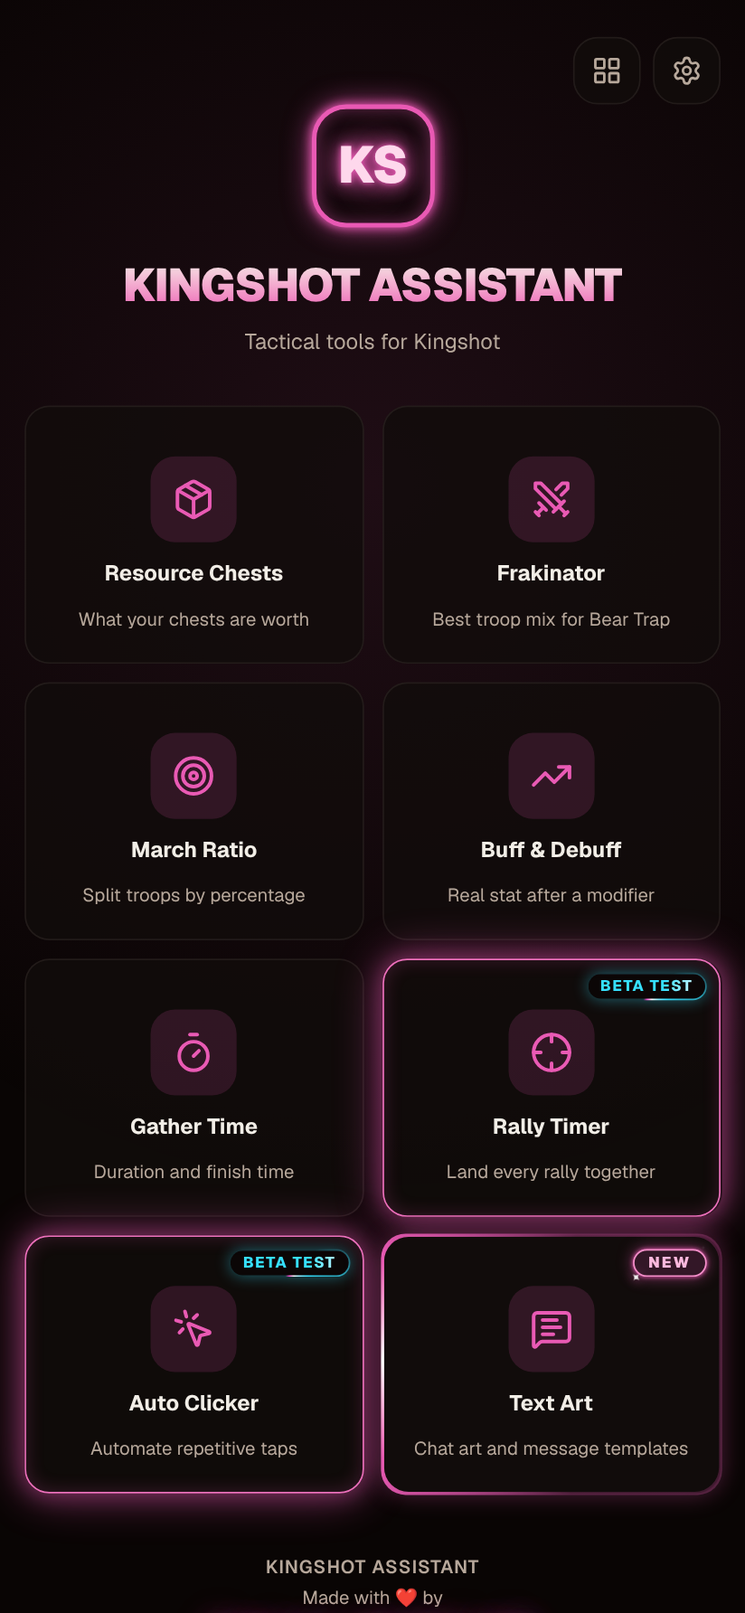
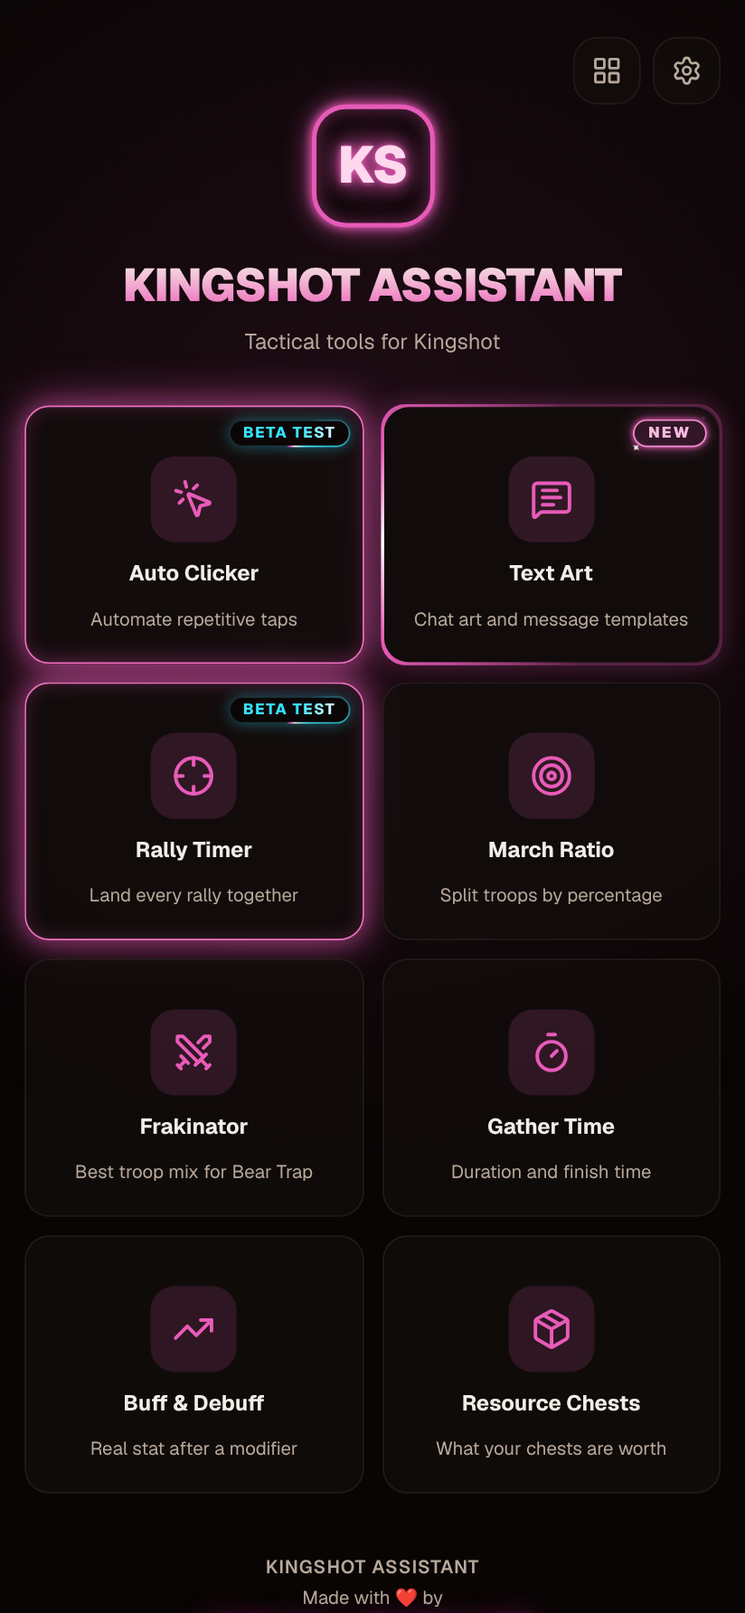
Defaults for everyone: accent, tile order, Text Art starter set, Auto Clicker look
A new install now starts with:
- the pink accent (hue 343) and the home tiles in the owner's order;
- about 40 ready-made Text Art templates in two folders (Pixel Art, ASCII);
- small Auto Clicker markers, a see-through panel that hides its markers
  while running, and a Terror macro whose steps are named (English and French).
Existing installs keep their own data. Version 1.2.0-beta.6, release notes.

Claude-Session: https://claude.ai/code/session_01NjK3Gz6vtnM8goYfLz7dzK

diff --git a/lib/default-art.ts b/lib/default-art.ts
@@ -1,0 +1,72 @@
+// The templates every new install starts with in Text Art: the owner's own collection,
+// in two folders. Existing users keep what they have; this is only used the first time
+// the module is opened.
+//
+// Names left empty show as "Untitled" in the language of the app.
+
+import { EXAMPLE_ART, type ArtLibrary } from "./text-art"
+
+const PIXEL = "default-folder-pixel-art"
+const ASCII = "default-folder-ascii"
+
+/** Id of the pixel hero: its name is translated when the library is created. */
+export const EXAMPLE_ID = "default-art-example"
+
+const ITEMS: { name: string; folder: string | null; text: string; updatedAt: number }[] = [
+  { name: "", folder: ASCII, text: "~°°~∧＿∧\n　 (｡･ω･｡)つ━💫~💎🌟。\n  ⊂/　     /　                💎゜\n　しーＪ　　　     🌟。+ 💎。　\n　　　　　                      💫・゜                    \n    ╭◜◝  ͡  ◜  ͡  ╮   ╭◜◝  ͡  ◜◝  ͡  ◝╮\n(    please      )    (      like my      )\n╰◟◞  ͜  ╭◜◝  ͡ ◜◝  ͡  ◝  ͡  ╮◞◟◞ ╯\n 　 　  (            island      )\n 　　    ╰◟◞  ͜  ◟◞  ͜  ◟◞ ╯", updatedAt: 1795409756514 },
+  { name: "", folder: ASCII, text: "yes          yes         yesyes\nyesyes    yes     yes         yes\nyes  yes  yes    yes           yes\nyes    yesyes    yes           yes\nyes      yesye     yes         yes\nyes          yes         yesyes", updatedAt: 1795409746352 },
+  { name: "", folder: PIXEL, text: "　　　🐸🐸🐸　　　🐸🐸🐸　　　　\n　　🐸🐸🐸🐸🐸　🐸🐸🐸🐸🐸　　　\n　🐸🐸🐸🐸🐸🐸🐸🐸🐸🐸🐸🐸🐸　　\n🐸🐸🐸🐸🐸🐸🐸🐸🐸🐸🐸🐸🐸🐸　　\n🐸🐸⚪⚫⚫⚪🐸🐸🐸🐸⚪⚫⚫⚪　　\n🐸⚪⚫⚫⚪⚫⚪🐸🐸⚪⚫⚫⚪⚫⚪　\n🐸⚪⚫⚪⚫⚫⚪🐸🐸⚪⚫⚪⚫⚫⚪　\n🐸🐸⚪⚫⚪⚪🐸🐸🐸🐸⚪⚫⚪⚪　　\n🐸🐸🐸🐸🐸🐸🐸🐸🐸🐸🐸🐸🐸🐸　　\n🔴🔴🐸🐸🐸🐸🐸🐸🐸🐸🐸🐸🐸🐸　　\n🐸🔴🔴🐸🐸🐸🐸🐸🐸🐸🐸🐸🐸　　　🐸🐸🔴🔴🔴🔴🔴🔴🔴🔴🔴🔴🔴🔴　　🐸🐸🐸🔴🔴🔴🔴🔴🔴🔴🔴🔴🔴🔴　　🐸🐸🐸🐸🐸🐸🐸🐸🐸🐸🐸🐸🐸　　　　🐸🐸🐸🐸🐸🐸🐸🐸🐸🐸🐸　　　　　　🐸🐸🐸🐸🐸🐸🐸🐸🐸", updatedAt: 1795409733029 },
+  { name: "", folder: null, text: "◽◽◽◽◽◽◾◾◾◾◽◽◽◽◽◽\n◽◽◽◽◾◾🔴🔴🔴🔴◾◾◽◽◽◽\n◽◽◽◾🔴🔴🔴🔴🔴🔴🔴🔴◾◽◽◽\n◽◽◾🔴🔴🔴🔴🔴🔴🔴🔴🔴🔴◾◽◽\n◽◽◾◽◽🔴🔴🔴🔴🔴🔴◽◽◾◽◽\n◽◾◽◽◽◽◾◾◾◾◽◽◽◽◾◽\n◽◾◽◽⚫◽◾◾◾◾◽⚫◽◽◾◽\n◽◾🔴◽◽◽◾◾◾◾◽◽◽🔴◾◽\n◽◾🔴🔴🔴◽◾◾◾◾◽🔴🔴🔴◾◽\n◽◽◾🔴🔴🔴◾◾◾◾🔴🔴🔴◾◽◽\n◽◽◾🔴🔴🔴🔴◾◾🔴🔴🔴🔴◾◽◽◽◽◽◾🔴🔴🔴🔴🔴🔴🔴🔴◾◽◽◽◽◽◾📒🔴🔴🔴🔴🔴🔴🔴🔴📒◾◽◽◽◾🔵📒🔴🔴🔴🔴🔴🔴🔴🔴📒🔵◾◽◽◾🔵🔵🔴🔴🔴🔴🔴🔴🔴🔴🔵🔵◾◽◽◾🔵🔵🔴🔴🔴🔴🔴🔴🔴🔴🔵🔵◾◽◽◾🔵◾🔴🔴🔴◾◾🔴🔴🔴◾🔵◾◽◽🏉◾🏉◾◾◾🏉🏉◾◾◾🏉◾🏉◽◽🏉🏉🏉🏉🏉🏉🏉🏉🏉🏉🏉🏉🏉🏉◽◽🏉🏉🏉🏉🏉🏉🏉🏉🏉🏉🏉🏉🏉🏉◽", updatedAt: 1795409720486 },
+  { name: "", folder: PIXEL, text: "　　　⚫　　　　　　　　⚫　　　\n　　⚫◽⚫　　　　　　⚫◽⚫　　\n　　⚫◽⚫　　　　　　⚫◽⚫　　\n　　⚫◽◽⚫　　　　⚫◽◽⚫　　\n　⚫◽◽◽⚫⚫⚫⚫⚫⚫◽◽◽⚫　\n　⚫◽⚫◽⚫🎽🎽🎽🎽⚫◽⚫◽⚫　\n　⚫◽◽⚫🎽🎽🎽🎽🎽🎽⚫◽◽⚫　\n　　⚫⚫🎽🎽🎽◽◽🎽🎽🎽⚫⚫　　\n　　⚫🎽◾◽🎽🎽🎽🎽◽◾🎽⚫　　\n　　⚫🎽◾◾🎽🎽🎽🎽◾◾🎽⚫　　\n　　⚫⚫🎽◾◽◽◽◽◾🎽⚫⚫　　　　　⚫🎽◽◽◽◽◽◽🎽⚫　　　⚫⚫　　⚫⚫◽◽◽◽⚫⚫　　　　🎽🎽⚫⚫⚫🎽🚹🚹🚹🚹🎽⚫　　　　⚫🎽🎽🎽🎽🎽◽◽◽◽🎽🎽⚫　　　⚫🎽🎽🎽🎽◽◽◽◽◽◽🎽🎽⚫　　　⚫🎽🎽◽◽◽◽◽◽◽🎽🎽⚫　　　　⚫🎽🎽◽◽◽◽◽◽🎽⚫　　　　　　⚫⚫🎽◽◽◽◽🎽⚫　　　　　　　　　⚫⚫⚫⚫⚫⚫", updatedAt: 1795409702656 },
+  { name: "", folder: PIXEL, text: "　　　⚫⚫⚫　👑　⚫⚫⚫　　　　\n　　⚫⚪⚪⚪⚫　⚫⚪⚪⚪⚫　　　\n　⚫⚪⚪◾◾⚪⚫⚪◾◾⚪⚪⚫　　\n　⚫⚪⚪◾◾⚪⚫⚪◾◾⚪⚪⚫　　\n　⚫⚫⚪⚪⚪⚫　⚫⚪⚪⚪⚫⚫　　\n⚫🐸🐸⚫⚫⚫　　　⚫⚫⚫🐸🐸⚫　\n⚫🌸🌸🐸🐸🐸🐸🐸🐸🐸🐸🐸🌸🌸⚫　\n⚫🌸🌸🐸⚫🐸🐸🐸🐸🐸⚫🐸🌸🌸⚫　\n⚫🐸🐸🐸🐸⚫🐸🐸🐸⚫🐸🐸🐸🐸⚫　\n　⚫🐸🐸🐸🐸⚫⚫⚫🐸🐸🐸🐸⚫　　\n　　⚫⚫🐸🐸🐸🐸🐸🐸🐸⚫⚫　　　　◾◾🐸🐸🐸🐢🐢🐢🐸🐸🐸🐸◾　　◾🐸🐸◾🐸🐸🐸🐸🐸🐸🐸🐸🐸🐸◾　◾🐸🐸◾🐸🐸🐸🐸🐸🐸🐸🐸◾🐸🐸◾　◾◾🐸🐸🐸🐸🐸🐸🐸🐸🐸◾🐸🐸◾　　◾🐸🐸🐸🐸🐸🐸🐸◾◾◾◾◾　　　◾🐸🐸🐸🐸🐸🐸◾🐸🐸🐸◾　　　　　◾🐸🐸🐸◾◾◾🐸🐸🐸◾　　　　　◾◾◾◾　　◾🐸🐸🐸◾　　　　　◾🐸🐸◾　　　◾◾◾　　　　　　　◾◾", updatedAt: 1795409687027 },
+  { name: "", folder: PIXEL, text: "🌌🌌◼◼◼◼◼◼◼◼🌌🌌🌌🌌🌌🌌\n◼◼◼◼◼◼◼◽◽◽◼◼🌌🌌🌌🌌\n◼◼◼◼◼◽◽◽◽◽◽◽◼🌌🌌🌌\n◼◼◼◼◽◽◽◽◽◽◽◽◻◼🌌🌌\n◼◼◼◼◽◽◼◼◽◽◼◼◽◼🌌🌌\n◼◼◼◼◽◽◼◼◽◽◼◼◽◼🌌🌌\n◼◼◼◼◽◽◽◽◽◽◽◽◽◼🌌🌌\n🌌◼◼◼◼◼◼◽◽◽◽◼◼🌌🌌🌌\n🌌🌌◼◼◼◼◼◽◽◽◽◼🌌🌌🌌🌌\n🌌🌌🌌◼◼◼◼◼◼◼◼🌌📔◼🌌🌌\n🌌🌌🌌🌌◼◼◼◼◼◼◼📔📔◼🌌🌌🌌🌌🌌🌌◼◼◼◼◼◼📔📔📁📁◼🌌🌌🌌🌌◼◼◼◼◼◼📔📔◼📁📁📁◼🌌🌌🌌◼◼◼◼◼📔📔◼🌌◼📁📁◼🌌🌌◼◼◼◼◼📔📔◼◼🌌🌌◼📁◼🌌🌌◼◼◼◼📔📔◼◼◼🌌🌌🌌◼◼🌌🌌◼◼◼📔📔◼◼◼◼🌌🌌🌌🌌◼🌌🌌◼◼📔📔◼◼◼◼◼🌌🌌🌌🌌🌌🌌🌌◼📔📔◼◼◼◼◼◼🌌🌌🌌🌌🌌🌌🌌📔📔◼◼◼◼◼◼◼🌌🌌🌌🌌🌌", updatedAt: 1795409672882 },
+  { name: "", folder: PIXEL, text: "　　　　　🌺🌺🌺　　　　　　　　　　　　🌺🌸🌸🌸🌺　　　　　　　　　　🌺🌸🌸🌸🌸🌸🌺　　　　　　　　　🌺🌸🌸🌸🌸🌸🌺　　　　　　　　🌺🌸🌸🌸🌸🌸🌸🌺🌺🌺🌺　　　　　🌺🌸🌸🌸🌸🌺🌺🌸🌸🌸🌸🌺　　　　🌺🌸🌸🌸🌺🌺🌸🌸🌸🌸🌸🌺　　　　⚪⚪🌸🌸🌺🌸🌸🌸🌸🌸🌺　　　　⚪🌕🌕⚪🌸🌸🌺🌺🌺🌺🌺🌸🌺　　　⚪🌕🌕⚪🌸🌸🌸🌸🌸🌸🌸🌺🌺　　　🌺⚪⚪🌸🌸🌸🌸🌸🌸🌸🌸🌸🌺　　　🌺🌸🌸🌸◻◻◻◻◻🌸🌸🌸🌺　　🌺🌸🌸🌸◻◻◻◻◻◻◻🌸🌸🌸🌺　🌺🌸🌸◻◼◻◻◻◻◻◼◻🌸🌸🌺　🌺🌸🌸◻◼◻◻◻◻◻◼◻🌸🌸🌺　　🌺🌸◻◻◻◻🌕◻◻◻◻🌸🌺　　　　🌺🌸◻◻◻◻◻◻◻🌸🌺　　　　　　🌺🌺🌺🌺🌺🌺🌺🌺🌺", updatedAt: 1795409662079 },
+  { name: "", folder: PIXEL, text: "　　　　　\n　　　　◼◼◼◼◼　　　　　　　　　　◼◼◼◼◻◻◼　　　　　　　　◼◼◼◼◻◻◻◻◼　　　　　　◼◼◻◼◼◻◻◻◻◻◼　　　　　◼◻◻◻◼◻◻◼◻◻◼　◼◼　　◼◻◻◻◻🌕🌕◻🌸◻◼◼🆒◼　　◼◻◻◼◻🌕◻◻◻◻◼🆒🆒◼　　◼◻🌸◻◻◻◻◻◻◼🆒🆒🆒◼　　　◼◻◻◻◻◻🆒🆒🆒🆒🆒🆒◼　　　◼◼◼🆒🆒🆒🆒🆒🆒🆒🆒◼　　　◼🆒🆒🆒🆒🆒🆒🆒🆒🆒🆒◼　　　◼🆒🆒🆒◼🆒🆒🆒🆒🆒🆒🆒🆒◼　　◼🆒🆒◼🆒🆒🆒🆒🆒🆒🆒🆒🆒◼　　　◼◼🆒🆒🆒🆒🆒🆒🆒", updatedAt: 1795409649606 },
+  { name: "", folder: ASCII, text: ".               🍀🌻🍀🍀🌾🍀\n            🍀💐🍀🍀🍀🍀💙🍀\n     🍀💜🍀🍀🍀💚🍀🍀🍀🌹🍀           \n🍀🌺🍀🍀🌸🍀🍀🍀🌷🍀🍀🌼🍀\n   🍀🍀💖🍀🍀💓🍀🍀🍀💛🍀🍀\n       `🍀🍀🍂🍀`\\\\//'🍀🍁🍀🍀'                \n                           |  |       🐝\n                 🍃     |  |    ∧__∧      🐝\n                          |  |（｀•ω• )づ__∧    \n               🍃      |  |（つ     /( •ω• ㅎ🐝\n                          |  |  しーＪ   (nnノ) 🍀🍀🍀🍀🍀🍀🍀🍀🍀🍀🍀🍀🍀🍀🍀 Like my island, I'll like yours back 🌴", updatedAt: 1795409633033 },
+  { name: "", folder: PIXEL, text: "　　　　　　🌰🌰🌰🌰🌰　　　　　　　　　　　◼◼◼◼◼　　　　　　　　　🌰🌰🌰🌰🌰🌰🌰🌰🌰　　　　　　　　🐬🐬🐬🐬🐬🐬🌰　　　　　　　　　◼⬜📙◼⬜🐬　　　　　　　　　　📙📙📙📙🐬🐬　　　　　　　　　📙📙📙📙📙📙🐬　　🍊🍊　　　　　　　🐬🐬🐬🐬🐬🐬🍊🍊🍊🍊　　　　　🐬🐬🐬🐬🐬🐬🍊🐬🍊🍊　　　　　🐬🐬🐬🐬🐬🐬🐬🍊🐬🍊　　　　　　🐬　🐬🐬🐬🐬🐬🐬🍊　　　　　　　　　🐬🐬🐬🐬🐬🍊🍊　　　　　　　　🐬🐬🐬🐬🐬🐬🐬　　　　　　　　　🐬🐬　　　🐬🐬　　　　　　　　　🐬🐬　　　🐬🐬　　　　　　　　📙📙📙　　　📙📙📙", updatedAt: 1795409624376 },
+  { name: "", folder: PIXEL, text: "　　　　　　　⚫　　⚫ \n　　　　　　　⚫　⚫ \n　　　　　　　　⚫　⚫⚫ \n　　⚫⚫　⚫⚫⚫⚫⚫ \n　⚫📒📒⚫📒📒📒📒📒⚫⚫ \n⚫📒📒⚫📒📒📒📒📒📒📒📒⚫ \n⚫📒⚫🕡📒📒📒📒📒📒📒📒📒⚫ \n⚫📒🕡⚫🕡📒📒📒🕡🕡📒📒⚫📒⚫ \n⚫📒⚫🕡📒📒📒🕡⚫🕡🕡⚫📒📒📒⚫ ⚫📒📒⚫⚫⚫⚫📒🕡🕡📒⚫📒📒📒⚫ 　⚫📔📔📔📔📔⚫⚫📒📒⚫📒📒📒⚫ ⚫📔📔📔📔📔📔📔📔⚫⚫📒📒📒📒⚫ ⚫📔📔📔📔📔📔⚫⚫📒📒📒📒📒⚫ 　⚫📔📔📔📔⚫📒📒📒📒📒⚫⚫ 　　⚫⚫⚫⚫📒📒📒📒📒📒⚫ 　　⚫📒📒📒📒📒📒📒📒📒⚫⚫⚫⚫ 　⚫⚫⚫📒📒📒📒📒📒📒📒⚫📒📒⚫ ⚫📔📔📔⚫📒📒📒📒📒📒⚫📒📒⚫ 　⚫📔📔📔⚫⚫⚫⚫⚫⚫📔⚫⚫ 　　⚫⚫⚫　　⚫📔📔📔📔⚫ 　　　　　　　　⚫⚫⚫⚫", updatedAt: 1795409612499 },
+  { name: "", folder: PIXEL, text: "◻◻◻◻◻◻◻◻◻◼◼◻◻◻◻◻◻◻◻◻◻◻◻◻◻◼◻◻◻◻◻◻◻◻◻◻◻◻◻◻◻◼◻◻◻◻◻◻◻◻◻◻◻◻◻◻◻◼◼◼◼◼◼◻◻◼◻◻◻◼◻◻◻◻◻◻◻◻◼◻◻◼◼◻◼◼◻◻◼◼◼◼◻◻◼◻◻◼◼◼◼◼◻◼◼◼◼◼◼◼◼◻◻◼📒◼📒◼◼◼◼◼◼◼◼◼◼◻◻◼◼◼◼◼◼◼◼◼◼◼◼◼◼◻◻◻◼◼◼◼◼◼◼◼◼◼◼◼◼◻◻◻◻◻◼◼◼◼◼◼◻◼◼◼◻◻◻◻◻◻◼◼◼◻◼◼◻◼◼◻◻◻◻◻◻◻◼◻◼◻◻◼◻◻◼◻◻◻◻◻◻◻◼◻◼◻◻◼◻◻◼◻◻◻◻◻◻◻◼◻◼◻◻◼◻◻◼◻◻◻◻◻◻◼◼◼◼◻◼◼◻◼◼◻◻◻", updatedAt: 1795409593716 },
+  { name: "", folder: ASCII, text: ".                                ／ 〉\n　　　        ＿_／ ／ ✨\n　　       ／　    〈　   ✨\n　　  ／ ／ ＼　   〉 ✨\n　 ／  Shot   ／ ／     \n／〈  Time   ／ 　      \\  ✨/\n＼＼   ／ ／                 .\\__/\n    /\\_/\\      (\\ __ /)     \n  ( ˶•o•˶)    ( •ω• )     \n ଘ(ა🍺 )     (ა🍺૮)｡", updatedAt: 1795409561718 },
+  { name: "", folder: PIXEL, text: "◻◻◻◻◼◼◼◼◼◼◼◼◻◻◻◻\n◻◻◻◼◼◼◼◼◼◼◼◼◼◻◻◻\n◻◻◼◼◼◼◼◼◼◼◼◼◼◼◻◻\n◻◻◼◼◻◻◻◼◼◻◻◻◼◼◻◻\n◻◼◼◻◻◻◻◻◻◻◻◻◻◼◼◻\n◻◼◼◻◻◻◼◻◻◼◻◻◻◼◼◻\n◻◼◼◻◻◼◼◻◻◼◼◻◻◼◼◻\n◻◼◼◻◻◼◼◻◻◼◼◻◻◼◼◻\n◻◼◼◻◻◻◻📙📙◻◻◻◻◼◼◻\n◻◼◼◼◻◻📙📙📙📙◻◻◼◼◼◻\n◻◻◼◼◼◼📙📙📙📙◼◼◼◼◻◻◻◻◻◼◼◼◼📙📙◼◼◼◼◻◻◻◻◻◼◼◼◼◼◼◼◼◼◼◼◼◻◻◻◼◼◼◼◻◻◻◻◻◻◼◼◼◼◻◻◼◼◻◻◻◻◻◻◻◻◻◻◼◼◻◼◼◼📙◻📙◻◻◻◻📙◻📙◼◼◼◼◼📙📙📙📙📙◻◻📙📙📙📙📙◼◼◼◼📙📙📙📙📙◻◻📙📙📙📙📙◼◼◼◼📙📙📙📙📙◻◻📙📙📙📙📙◼◼◻◼◼📙📙📙◼◼◼◼📙📙📙◼◼◻◻◻◼◼📙◼◻◻◻◻◼📙◼◼◻◻", updatedAt: 1795409539576 },
+  { name: "", folder: PIXEL, text: "◾◾　　　　　　　　　　　◾📒◾\n◾◾◾　　　　　　　　　◾📒📒◾\n◾◾◾　　　　　　　　◾📒📒📒◾\n◾◾📒◾　　　　　　◾📒📒📒📒◾\n◾📒📒◾◾　　　　◾📒◾◾◾◾◾\n◾◾📒📒◾◾◾◾◾◾◾◾◾📒📒📒\n　◾📒📒📒📒📒📒📒📒📒📒📒📒📒◾\n　◾📒📒📒📒📒📒📒📒📒📒📒◾◾　\n　◾◾📒📒📒📒📒📒📒📒📒◾◾　　\n　◾📒📒📒📒📒📒📒📒📒📒📒◾　　　◾📒⚪◾📒📒📒📒📒⚪◾📒◾　　◾◾📒◾◾📒📒📒📒📒◾◾📒◾◾　◾📒📕📒📒📒📒◾📒📒📒📒📕📒◾　◾◾📕📕📒📒📒📒📒📒📒📕📕◾◾　　◾◾📕📒📒📒◾📒📒📒📕◾◾　　　◾📒📒📒📒📒📒📒📒📒📒📒◾　　◾◾📒📒📒📒📒📒📒📒📒📒📒◾◾　◾📒📒📒📒📒📒📒📒📒📒📒📒📒◾　◾📒📒◾📒📒📒📒📒📒📒◾📒📒◾　◾📒◾📒📒📒📒📒📒📒📒📒◾📒◾", updatedAt: 1795409528107 },
+  { name: "", folder: ASCII, text: ".∴＼∨／∴\n　＊│＊　　＝＞✨＜＝\n＊＼※／＊　　∵／∧＼∵\n─※✨✨※─　 　   ∵∥∵\n＊／※＼＊ ・　＊│＊　 　 　　 ｉ　　ｉ　　 　　 　ｉ\n＿＿ (\\ _/)(\\👑/)   ｉ　　\n         ( 　   ( 　   ) ￣￣       \n        (　ヾ (　⊃ )\n\nCould be us, but you're not in 1167.\n.", updatedAt: 1795409517241 },
+  { name: "", folder: PIXEL, text: "◻◻◻◻◻◻◻◻◼◼◼◻◻◻◻◻\n◻◻◻◼◼◻◻◼📘📘📘◼◻◻◻◻\n◻◻◼◻◻◼◼◼📘📘📘◻◼◻◻◻\n◻◻◼◻◻◻◻◻📘📘📘📘📘◼◻◻\n◻◼◻◻◻◻◻◻◻◻📘📘📘◼◻◻\n◻◼◻◻◻◻◻◻◻◻📘📘📘◻◼◻\n◼◼◻◻◻◻◻◻◻◻◻◻◻◼◼◼\n◻◼◻◼◻◻◻◻◻◼◻◻◻◻◼◻\n◼◼◻◼◻◻◻◻◻◼◻◻◻◼◼◼\n◻◼◻◻◻📕◻◻◻◻◻◻◻◼◻◻\n◻◻◼◻◻◻◻◻◻◻◻◼◼◻◻◻◻◻◻◼◼◼◼◼◼◼◼◻◻◻◻◻◻◻◼◻◼📘◻📘📘◻◻◼◻◻◻◻◻◻◻◼📘📘📘📘📘📘◻◻◼◻◻◻◻◻◼📘📘📘📘📘📘📘📘◼◻◻◻◻◻◻◻◼◻◼◻◻◻◼◼◻◻◻◻◻◻◻◻◻◼◼◼◼◼◼◻◻◻◻◻◻", updatedAt: 1795409496838 },
+  { name: "", folder: ASCII, text: ".     ＜~ヽ、\n    　/　　＼\n    ,.' , =＝=｀､\n＜__(   ͡● ᴗ●)_＞ \n      ⊂　　  つ━━✨✨✨ <item_icon_100004>   \n        しーーＪ", updatedAt: 1795409479487 },
+  { name: "", folder: ASCII, text: "\u0016\u0016                \u0016\u0016\u0016\u0016\u0016\u0016\u0016\u0016\u0016\u0016\u0016\u0016　　　\u0016\u0016🍸　\n     ∧__∧　　 \u0016🍸\u0016🍸　\n   (  ´･ω･)       \u0016🍸\u0016🍸\u0016🍸\n   /ヽ○==○ \u0016\u0016🍹🍹\u0016🍹\u0016🍹\n \u0016/　   ||＿||\u0016🍹\u0016🍹\u0016🍹\u0016🍹\u0016🍹\nし'￣(_))￣(_))￣(_))￣(_)\u0016\u0016\u0016\u0016\u0016\u0016", updatedAt: 1795409471696 },
+  { name: "", folder: PIXEL, text: "💜💜⚫⚫　　　　　　　⚫⚫💜💜⚫\n💜💜💜⚫⚫　　　　　⚫⚫💜💜💜⚫\n💜💜💜⚫⚫⚫⚫⚫⚫⚫⚫⚫💜💜💜⚫\n💜💜⚫⚫⚫⚫⚫⚫⚫⚫⚫⚫⚫💜💜⚫\n💜⚫⚫⚫⚫⚫⚫⚫⚫⚫⚫⚫⚫⚫💜⚫\n⚫⚫⚫⚫⚫⚫⚫⚫⚫⚫⚫⚫⚫⚫⚫　\n⚫⚫⚫⚪⚪⚫⚫⚫⚫⚫⚪⚪⚫⚫⚫　\n⚫⚫⚪⚪⚪⚪⚫⚫⚫⚪⚪⚪⚪⚫⚫　\n⚫⚪⚪⚪⚫⚪⚫⚫⚫⚪⚫⚪⚪⚪⚫⚫\n⚫⚪⚪⚪⚫⚪⚫⚫⚫⚪⚫⚪⚪⚪⚫　\n⚫⚫⚪⚪⚪⚪⚫🌸⚫⚪⚪⚪⚪⚫⚫⚫⚫⚫⚫⚫⚫⚫⚫⚫⚫⚫⚫⚫⚫⚫⚫　　⚫⚫⚫⚫⚫⚫⚫⚫⚫⚫⚫⚫⚫　　　　⚫⚫⚫⚫⚫⚫⚫⚫⚫⚫⚫　　　　　　　⚫🌺🌺⚫🌺🌺⚫　　　　　　　　⚫🌺🌺🌺🌺🌺🌺🌺⚫", updatedAt: 1795409451688 },
+  { name: "", folder: PIXEL, text: "　　　　　◼◼◼◼◼◼　　　　　　　　　◼◼📒📒◼◼◼◼　　　　　　　◼📘📘📒📒📘📘📘◼　　　　　　📘📘📘◼◼◼◼◼📘📘◼　　　　◼◼◼◼◼◼◼◼◼◼📘📘　　　◼◼◼◼◼📜📜📜📜◼◼◼◼◼　　◼◼◼◼📜📜📜📜📜📜◼◼◼◼◼　◼◼◼◼📜📘📜📜📜📘📜◼◼◼◼◼◼◼◼📒📜📜📜📜📜📜📜📒◼◼◼◼　◼◼📒📒📜📜📜📜📜📒📒◼◼◼◼　　　◼📜📜📜📕📜📜◼◼◼◼◼◼　　　　◼◼📜📜📜📜◼◼◼◼◼　　　　　　◼◼📜📜📜◼◼◼◼　　　　　　　　📒📜📜📜📒◼◼　　　　　　　📜📜📒📒📒📒📒📜📜◼　　　　　📜📜📜📜📜📒📜📜📜📜📜◼　　　📜📘📘📘📘📜📜📜📘📘📘📘◼◼　　📘📘📘📘📘📘📜📘📘📘📘📘◼◼　　📘📘📘📘📘📘📘📘📘📘📘📘◼◼　　📜📘📘📘📘📘📘📘📘📘📘📘📘📘　　📜📜📜📜📜📜📜📜📜📜📜📜📜📜", updatedAt: 1795409439157 },
+  { name: "", folder: PIXEL, text: "　　◼◼　　　　　　　　◼◼　　　◼◻◻◼　　　　　　◼◻◻◼　　◼◻◻◻◼　　　　◼◻◻◻◼　　◼◻◻◻◻◼　　◼◻◻◻◻◼　　　◼◻◻◻◼　　◼◻◻◻◼　　　　　◼◻◻◼◼◼◼◻◻◼　　　　　　　◼◻◻◻◻◻◻◼　　　　　　　◼◻◻◼⚪◻◼⚪◻◼　　　　　◼◻◻◻◼◼◻◼◼◻◻◼　　　　◼◻◻◻◻◻◼◻◻◻◻◼　　　◼◻◻◻◻◻◼◻◼◻◻◻◻◼　　◼◻◻◻◻◻◻◻◻◻◻◻◻◼　　◼◻◻◻◻◻◻◻◻◻◻◻◻◼　　　◼◻◻◻◻◻◻◻◻◻◻◼　　　　　◼◻◻◻◻◻◻◻◻◼　　　　◼◼◻◻◻◻◻◻◻◻◻◻◼　　◼◻◻◼◻◻◻◻◻◻◻◻◻◻◼　◼◻◻◼◻◻◻◻◻◻◻◻◼◻◻◼　◼◼◻◻◻◻◻◻◻◻◻◼◻◻◼　　◼◻◻◻◻◻◻◻◼◼◼◼◼　　　◼◻◻◻◻◻◻◼◻◻◻◼　　　　　◼◻◻◻◼◼◼◻◻◻◼　　　　　◼◼◼◼　　◼◻◻◻◼　　　　　◼◻◻◼　　　◼◼◼　　　📗📗📗📗◼◼📗📗📗📗📗📗📗📗📗📗", updatedAt: 1795409425223 },
+  { name: "", folder: PIXEL, text: "⬜⬜⬜⬛⬜⬜⬜⬜⬜⬜⬜⬜⬜⬜⬜⬜⬜⬜⬜⬜⬛⬜⬜⬜⬜⬜⬜⬜⬜⬜⬜⬜⬜⬛⬛⬜⬛⬛⬛⬛⬛⬛⬜⬜⬜⬜⬜⬜⬜⬜⬜⬛📒📒📒📒📒📒📒⬛⬜⬜⬜⬜⬜⬜⬛📒📒📒📒📒📒📒📒📒⬛⬜⬜⬜⬜⬛📒📒📒📒📒📒📒📒📒📒📒⬛⬜⬜⬜⬛📒📒📒📒📒📒📒📒📒📒📒⬛⬜⬜⬜⬛📒📒📒📒📒📒📒📒📒📒📒⬛⬜⬜⬜⬛📒📒⬛📒📒📒📒⬛📒📒📒⬛⬜⬜⬜⬛📒📒⬛📒📒📒📒⬛📒📒📒⬛⬜⬜⬛📒📒📒📒📒📙📙📒📒📒📒📒📒⬛⬜⬛📒📒📒📒📙📙📙📙📒📒📒📒📒⬛⬜⬜⬛📒📒📒📒📒📒📒📒📒📒📒⬛⬜⬜⬜⬜⬛⬛⬛⬛⬛⬛⬛⬛⬛⬛⬛⬜⬜⬜⬜⬜⬜⬜⬛📒📒📒📒📒📒⬛📒⬛⬜⬜⬜⬜⬜⬛📒📒📒📒📒⬛⬛📒📒⬛⬜⬜⬜⬜⬜⬛📒📒📒📒📒📒📒⬛⬛⬜⬜⬜⬜⬜⬜⬜⬛⬛⬛⬛⬛⬛⬛⬛⬛⬜⬜⬜⬜⬜⬜⬜⬜⬛⬜⬜⬜⬛⬜⬜⬜⬜⬜", updatedAt: 1795409415500 },
+  { name: "", folder: ASCII, text: ".             /| _ ╱|、                 \n             ( •̀ㅅ •́  )\n       ＿ノ ヽ ノ＼＿ \n    /　`/ Ｙ Ｙ　 \\     \\  \n ( 　(三ヽ人　 /　 　|\n|　ﾉ＼ ￣￣ヽ　   ノ\nヽ＿＿＿＞､＿＿/ is there gonna\n          ｜( 王 ﾉ〈      Be a problem\n           /ﾐ`ー―彡\\      Here?", updatedAt: 1795409390205 },
+  { name: "", folder: PIXEL, text: "　　◾　　　　　　　　　　◾　　\n　◾😈◾　　　　　　　　◾😈◾　\n◾◾😈😈◾　　　　　　◾😈😈😈◾\n◾😈◾😈😈◾　　　　◾😈😈◾😈◾\n◾😈😈◾😈😈◾　　◾😈😈◾😈😈◾\n◾😈😈👀◾😈◾　　◾😈◾👀😈😈◾\n◾😈😈◾◾😈◾　　◾😈◾◾😈😈◾\n◾😈😈◾◾😈◾　　◾😈◾◾😈😈◾\n◾😈😈😈😈😈◾　　◾😈😈😈😈😈◾\n　◾😈😈😈😈◾　　◾😈😈😈😈◾　\n　　◾😈😈◾　　　　◾😈😈◾　　　　　◾◾　　　　　　◾◾", updatedAt: 1795409375135 },
+  { name: "", folder: PIXEL, text: "　　　　⚫⚫⚫⚫⚫⚫⚫　　　　　\n　　　⚫📗📗📗📗📗📗📗⚫　　　　\n　　⚫📗📗📗📗📗📗📗📗📗⚫　　　\n　　⚫📗💎📗📗💎📗📗⚫📗📗⚫　　\n　　⚫📗📗📗📗📗📗📗⚫📗📗⚫　　\n　　　⚫📗📗📗📗📗⚫✅📗📗⚫　　\n　　　　⚫⚫💥⚫⚫✅✅📗📗⚫　　\n　　　　　　💥⚫✅✅✅📗📗⚫　　\n　　　　　　　⚫✅✅📗📗⚫　　　\n　　　　　　⚫✅✅📗📗📗⚫　　　\n　　　　　　⚫✅✅📗📗⚫　　　　　　　　　⚫✅✅📗📗📗⚫　　　　　　　　⚫✅✅📗📗📗⚫　　　　　　　　　⚫✅✅📗📗⚫　　　　　　　　　⚫✅✅📗📗📗⚫　⚫⚫⚫⚫⚫　　　⚫✅✅📗📗📗⚫⚫📗📗📗📗📗　　　⚫✅✅📗📗📗⚫📗📗📗📗📗📗　　　⚫✅✅📗📗📗⚫📗📗📗📗📗⚫　　⚫⚫✅✅📗📗📗📗⚫✅✅✅✅✅　⚫📗📗⚫✅✅📗📗📗📗⚫⚫⚫⚫⚫⚫📗📗📗⚫✅✅✅📗📗📗📗📗📗📗📗⚫📗📗📗📗⚫✅✅✅📗📗📗📗📗📗📗⚫📗📗📗📗📗⚫✅✅✅✅", updatedAt: 1795409368899 },
+  { name: "", folder: PIXEL, text: "　　⚫⚫　⚫⚫⚫⚫⚫　⚫⚫　　　\n　⚫🏀🏀⚫📜📜📜📜📜⚫🏀🏀⚫　　\n　⚫🏀🏀📜📜📜📜📜📜📜🏀🏀⚫　　\n　　⚫📜📜📜📜📜📜📜📜📜⚫　　　\n　⚫📜📜📜📜📜📜📜📜📜📜📜⚫　　\n　⚫📜📜◼📜📜📜📜📜◼📜📜⚫　　\n　⚫📜📜◻◻◻◼◻◻◻📜📜⚫　　\n　⚫📜◻◻◻◼◻◼◻◻◻📜⚫　　\n　⚫◻◻◻◻◻◻◻◻◻◻◻⚫　　\n⚫◻◻◻◻💜💜◻💜💜◻◻◻◻⚫　\n⚫◻◻◻💜💜💜💜💜💜💜◻◻◻⚫　⚫◻◻◻💜💜💜💜💜💜💜◻◻◻⚫　⚫◻◻◼◼💜💜💜💜💜◼◼◻◻⚫　⚫◻◻◻📜◼💜💜💜◼📜◻◻◻⚫　⚫◻◻◻◼◻◻💜◻◻◼◻◻◻⚫　⚫◻◻◻◻◻◻◻◻◻◻◻◻◻⚫　　⚫◻◻◻◻◻◻◻◻◻◻◻⚫　　　　⚫◻📜📜◻◻◻📜📜◻ ⚫", updatedAt: 1795409303009 },
+  { name: "", folder: PIXEL, text: "　　　　　　　　◼◼◼　　　　　\n　　　◼◼　　◼🔴🔴🔴◼　　　　\n　　◼◻◻◼◼◼🔴🔴🔴◻◼　　　\n　　◼◻◻◻◻◻🔴🔴💗🔴🔴◼　　\n　◼◻◻◻◻◻◻◻◻🔴🔴🔴◼　　\n　◼◻◻◻◻◻◻◻◻🔴🔴🔴◻◼　\n◼◼◻◻◻◻◻◻◻◻◻◻◻◼◼　\n◼◼◻◼◻◻◻◻◻◼◻◻◻◻◼◼\n　◼◻◼◻◻◻◻◻◼◻◻◻◼◼◼\n　◼◻◻◻◻◼◻◻◻◻◻◻◼　　\n　　◼◻◻◻◻◻◻◻◻◼◼　　　　　　◼◼◼◼◼◼◼◼　　　　　　　◼◻◼🔴◻🔴🔴◻◻◼　　　　　　　◼🔴🔴🔴🔴🔴🔴◻◻◼　　　　　◼🔴🔴🔴🔴🔴🔴🔴🔴◼　　　 　　　◼◻◻◼◻◻◻◼◼　　　　　　　　◼◼◼◼◼◼", updatedAt: 1795409309858 },
+  { name: "", folder: PIXEL, text: "　　　　　　　　　◾◾◾　　　　　　　　　　　　◾💛💛💛◾　　　　　　　　　　◾💛💛💛💛💛◾　　　　　　　　　◾💛💛💛◾💛◾　　　　　　　　　◾💛💛💛💛🈷🈷◾　　　　　　　　　◾💛💛💛◾◾　　　◾　　　　　　　◾💛◾　　　　◾💛◾　　　　◾◾💛💛◾　　　　◾💛💛◾◾◾◾💛💛💛💛💛◾　　　◾💛💛💛💛💛💛💛💛💛💛💛💛◾　　　◾💛💛💛💛💛💛💛◾💛💛💛◾　　　◾💛💛◾💛💛💛◾💛💛💛💛◾　　　　◾💛💛◾◾◾◾💛💛💛◾　　　　　◾💛💛💛💛💛💛💛💛💛◾　　　　　　◾◾💛💛💛💛💛◾◾　　　　　　　　　◾◾◾◾◾", updatedAt: 1795409268795 },
+  { name: "", folder: PIXEL, text: "　　　　　📗📗📗📗📗📗　　　　　\n　　　　📗📗📗📗📗📗📗📗　　　　\n📗　　📗◼◼📗📗📗📗◼◼📗　　📗\n📗📗　◼📗📗◼📗📗◼📗📗◼　📗📗\n📗📗📗📗📃📗📗📗📗📗📗📃📗📗📗📗\n📗📗📗📃◼📃📗📗📗📗📃◼📃📗📗📗　　📗📗📃📗📗📗📗📗📗📃📗📗　　　　　📗📗📗📗◼◼◼📗📗📗　　　　　📗📗📗📗📗📗📗📗📗📗📗📗　　　📗📗📗📗📗◼📗📗📗◼📗📗📗📗　📗📗📗📗📗📗📗◼◼◼📗📗📗📗📗📗📗📗📗📗📗📗📗📗📗📗📗📗📗📗📗📗📗📗📗◼📗📗📗📗📗📗📗📗📗◼📗📗　📗📗📗◼📗📗📗📗📗📗📗◼📗📗　　　📗📗📗◼◼◼◼◼◼◼📗📗　　　　　📗📗📗📗📗📗📗📗📗📗　　　　　　　📗📗📗📗📗📗📗📗", updatedAt: 1795409261265 },
+  { name: "", folder: PIXEL, text: "　　　　　　　　　　　　　\n    ◽◽◽　　　　　　　　◽◽◽　\n◽📁📁◽◽◽◽◽◽◽◽◽◽📁📁◽\n◽📁📁◽◽◽◽◽◽◽◽◽◽📁📁◽\n◽◽◽◽◽◽◽◽◽◽◽◽◽◽◽◽\n　　◽◽◼◽◽◽◽◽◽◼◽◽　　\n　◽◽◼◽◼◽◼◼◽◼◽◼◽◽　\n◽◽◽◽◽◽◽◼◼◽◽◽◽◽◽◽\n◽◽🎒🎒🎒🎒🎒🎒🎒🎒🎒🎒🎒🎒◽◽◽◽🎒🎒🎒🎒🎒🎒🎒🎒🎒🎒🎒🎒◽◽◽◽◽🎒🎒🎒🎒🎒🎒🎒🎒🎒🎒◽◽◽◽◽◽◽🎒🎒🎒🎒🎒🎒🎒🎒◽◽◽◽📘📘📘📘◽◽🎒🎒🎒🎒◽◽📘📘📘📘📘📘📘📘📘📘◽◽◽◽📘📘📘📘📘📘📘📘📘📘📘📘📘📘📘📘📘📘📘📘📘📘◽◽📘📘📘📘📘📘📘📘📘📘📘📘◽◽◽◽◽📘📘📘📘📘📘📘📘📘📘◽◽◽", updatedAt: 1795409248837 },
+  { name: "Spider TG", folder: PIXEL, text: "　　　　　　　💭　　　　　　　　\n　　　　　　　💭　　　　　　　　\n　　　　⚫⚫⚫💭⚫⚫⚫　　　　　\n　　　⚫💭⚫　　　　\n　⚫⚫💭⚫⚫　　\n⚫🚹⚫⚫💭⚫⚫🚹⚫　\n🚹🚹🚹⚫🚹💭💭💭🚹⚫🚹🚹🚹　\n🚹🚹🚹⚫⚫⚫💭💭💭⚫⚫⚫🚹🚹🚹　\n🚹🚹⚫⚫💭⚫⚫🚹🚹　\n⚫⚫⚫⚫⚫⚫　\n　⚫🚹⚫⚫🚹⚫　　⚫🚹⚫🚹🚹⚫🚹⚫　⚫⚫🚹🚹⚫⚫　　⚫⚫　　　　⚫⚫⚫⚫⚫⚫⚫　　　　　　　⚫⚫⚫⚫　　　　　　　　⚫⚫　　　　　　⚫⚫　　　　⚫⚫　　　⚫⚫⚫⚫⚫⚫　　　⚫⚫⚪⚪⚫⚫⚪⚪⚫⚫　　　⚫⚫⚪⚫⚫⚪⚫⚫　　　⚫⚫⚫⚫　　　⚫⚫　　　⚫⚫　　　　⚫⚫　　　　　　⚫⚫⚫⚫　　　　　　　　　⚫⚫⚫⚫⚫", updatedAt: 1795409232143 },
+  { name: "Dice Cat", folder: PIXEL, text: "🌑🌑🌑🌑🌑🌑🌑🌑🌑🌑🌑🌑🌑🌑🌑🌑🌑🌑🌑🎲🌑🌑🌑🎲🌑🌑🌑🌑🌑🌑🌑🌑🌑🌑🎲🎲🌑🌑🎲🎲🌑🌑🌑🌑🌑🌑🌑🌑🌑🌑🎲🎲🎲🎲🎲🎲🌑🌑🌑🌑🌑🌑🌑🌑🌑🎲🎲🎲🎲🎲🎲🎲🎲🌑🌑🌑🌑🌑🌑🌑🌑🎲🎲🎲🎲🎲🎲🎲🎲🌑🌑🌑🌑🌑🌑🌑🌑🎲🎲🎲🎲🎲🎲🎲🎲🌑🌑🌑🌑🌑🌑🌑🌑🌑🎲🎲🎲🎲🎲🎲🌑🌑🌑🌑🌑🌑🌑🌑🌑🌑🌑🎲🎲🎲🎲🌑🌑🌑🌑🌑🌑🌑🎲🎲🎲🎲🎲🎲🌑🌑🌑🌑🌑🌑🌑🎲🎲🎲🎲🎲🎲🌑🌑🌑🌑🌑🌑🌑🎲🎲🎲🎲🎲🎲🎲🎲🌑🌑🌑🌑🌑🌑🎲🎲🎲🎲🎲🎲🎲🎲🌑🌑🌑🌑🌑🌑🎲🎲🎲🎲🎲🎲🎲🎲🎲🌑🌑🌑🌑🌑🌑🌑🎲🎲🎲🎲🎲🎲🎲🌑🌑🎲🌑🌑🌑🌑🌑🌑🌑🌑🌑🌑🌑🌑🌑🎲🎲🌑🌑🌑🌑🌑", updatedAt: 1795361071466 },
+  { name: "", folder: ASCII, text: "～～～\n|    💀   ＼\n.～～～～ ＼　 　”∧👑∧\n　                ﾉ＼  (*　>ω•́ )\n          　ｰ=≡t―ｰ/ヽ＿つ)_つ💌\n          　≡(〓〓(　)／＼＼ｰ＼\n          　=≡( (〓:(／　　|（Ｏ)\n      T　=≡ヽ､＿ノ￣￣ヽ＿／\n🔥🔥🔥🔥🔥🔥🔥🔥🔥🔥🔥🔥🔥🔥🔥🔥\n 🔥🔥🔥🔥🔥🔥\\₍ᐢ•ﻌ•ᐢ₎/🔥🔥\\₍ᐢ•ﻌ•ᐢ₎/🔥🔥🔥🔥\\₍ᐢ•ﻌ•ᐢ₎/🔥🔥🔥🔥🔥\\₍ᐢ•ﻌ•ᐢ₎/.🔥🔥🔥\\🔥🔥🔥🔥\\₍ᐢ•ﻌ•ᐢ₎/🔥🔥🔥🔥🔥🔥🔥🔥🔥🔥🔥🔥🔥🔥🔥🔥🔥🔥🔥🔥🔥", updatedAt: 1795367052477 },
+  { name: "Squirrel", folder: PIXEL, text: "　　　　⚫⚫⚫⚫⚫⚫　　　　　　　　⚫⚫📜📜📜📜📜⚫　　　　　　　⚫📜📜📜📜📜📜⚫　　　　　　　⚫📜📜📜📜📜📜⚫　　　　　　　　📜📜📜📜📜📜📜⚫　　　　　　　　📜📜📜📜📜📜📜⚫⚫　　　⚫⚫　　📜📜📜📜📜📜⚫📜📜⚫　⚫📜📜⚫　📜📜📜📜📜📜⚫📜📜⚫　⚫📜📜⚫　📜📜📜📜📜⚫📜📜📜📜⚫📜📜📜📜⚫⚫📜📜📜📜⚫📜📜📜📜📜📜📜📜📜⚫　⚫📜📜📜⚫📜📜📜📜📜📜📜📜📜⚫　　⚫📜📜⚫📜◾📜📜📜📜📜◾📜📜　　⚫📜⚫📜📜◾📜📜📜📜📜◾📜📜　　⚫📜⚫📜📜📜◽◾◾◽📜📜📜📜　　⚫📜⚫📜📜◽◽◽◽◽◽📜📜⚫　⚫📜📜📜⚫📜◽◽◽◽◽◽📜⚫　　⚫📜📜📜📜⚫⚫📜◽◽◽⚫⚫　　⚫📜📜📜📜⚫📜📜📜📜◽◽📜📜⚫⚫⚫📜📜📜⚫📜⚫📜📜📜◽◽📜📜📜📜⚫📜📜⚫📜📜⚫📜📜⚫◽◽📜⚫⚫⚫⚫📜📜⚫📜📜📜⚫⚫📜◽◽📜⚫", updatedAt: 1795356399572 },
+  { name: "Duck", folder: PIXEL, text: "　　　　　📒📒📒📒📒📒📒　　　　　　　　📒📒📒📒📒📒📒📒📒　　　　　　📒📒📒📒📒📒📒📒📒📒📒　　　　　📒📒◻◻◻📒◻◻◻📒📒　　　　　📒📒◻◻◻📒◻◻◻📒📒　　　　　📒📒◻◻◻📒◻◻◻📒📒　　　　　📒📒◻📘📘📒📘📘◻📒📒　　　　　　📒◻📘◼📒◼📘◻📒　　　　　　📒📒◻📘◼📒◼📘◻📒📒　　　　　📒📒📒📒📒📙📒📒📒📒📒　　　　　　　📒📒📒📒📒📒📒　　　　　　　　　　　📒📒📒　　　　　　　　　　　　📒📒📒📒📒　　　　　　　📙📙📙📒📒📒📒📒📒📒📙📙📙　　📙📙📙📙📙📒📒📒📒📒📙📙📙📙📙　📙📙📙📙📙📙📒📒📒📙📙📙📙📙📙　　📙📙📙📙📙📙　📙📙📙📙📙📙　　　　📙📙📙📙　　　📙📙📙📙", updatedAt: 1795356403975 },
+  { name: "Busy cat", folder: ASCII, text: ".         ︵　    ∧︵∧ 　 　 　 \niﾆﾆi /       ヽ  (  ´•ω•)_　 　 \n|  ~|{　  　|/      っ/_/ 　   \n|＿lヽ　   (＿   ')  ) 　   　 　 \n|　  ￣|(￣￣Ｕ)Ｕ 　 　 \n|＿＿l＿)💩(＿＿_ ", updatedAt: 1795384384036 },
+  { name: "Exemple : héros en pixels", folder: PIXEL, text: EXAMPLE_ART, updatedAt: 1795356414858 },
+]
+
+/** A fresh copy of the default library. `exampleName` is the pixel hero's name in the app's language. */
+export function defaultLibrary(exampleName: string): ArtLibrary {
+  return {
+    folders: [
+      { id: PIXEL, name: "Pixel Art" },
+      { id: ASCII, name: "ASCII" },
+    ],
+    items: ITEMS.map((it, i) => ({
+      id: it.text === EXAMPLE_ART ? EXAMPLE_ID : `default-art-${String(i + 1).padStart(2, "0")}`,
+      name: it.text === EXAMPLE_ART ? exampleName : it.name,
+      folderId: it.folder,
+      text: it.text,
+      updatedAt: it.updatedAt,
+    })),
+  }
+}

diff --git a/app/globals.css b/app/globals.css
@@ -11,33 +11,33 @@
   --card-foreground: oklch(0.95 0.01 80);
   --popover: oklch(0.14 0.01 25);
   --popover-foreground: oklch(0.95 0.01 80);
-  --primary: oklch(0.68 0.2 35);
+  --primary: oklch(0.68 0.2 343);
   --primary-foreground: oklch(0.98 0 0);
   --secondary: oklch(0.22 0.01 25);
   --secondary-foreground: oklch(0.85 0.02 80);
   --muted: oklch(0.22 0.01 25);
   --muted-foreground: oklch(0.74 0.025 60);
-  --accent: oklch(0.85 0.15 85);
+  --accent: oklch(0.85 0.15 33);
   --accent-foreground: oklch(0.15 0.01 25);
   --destructive: oklch(0.55 0.22 25);
   --destructive-foreground: oklch(0.98 0 0);
   --border: oklch(0.3 0.012 30);
   --input: oklch(0.1 0.005 25);
-  --ring: oklch(0.68 0.2 35);
-  --chart-1: oklch(0.68 0.2 35);
-  --chart-2: oklch(0.85 0.15 85);
+  --ring: oklch(0.68 0.2 343);
+  --chart-1: oklch(0.68 0.2 343);
+  --chart-2: oklch(0.85 0.15 33);
   --chart-3: oklch(0.5 0.08 55);
   --chart-4: oklch(0.55 0.05 60);
   --chart-5: oklch(0.45 0.03 50);
   --radius: 0.75rem;
   --sidebar: oklch(0.14 0.01 25);
   --sidebar-foreground: oklch(0.95 0.01 80);
-  --sidebar-primary: oklch(0.68 0.2 35);
+  --sidebar-primary: oklch(0.68 0.2 343);
   --sidebar-primary-foreground: oklch(0.98 0 0);
   --sidebar-accent: oklch(0.22 0.01 25);
   --sidebar-accent-foreground: oklch(0.95 0.01 80);
   --sidebar-border: oklch(0.25 0.01 30);
-  --sidebar-ring: oklch(0.68 0.2 35);
+  --sidebar-ring: oklch(0.68 0.2 343);
 }
 
 .dark {
@@ -47,32 +47,32 @@
   --card-foreground: oklch(0.95 0.01 80);
   --popover: oklch(0.14 0.01 25);
   --popover-foreground: oklch(0.95 0.01 80);
-  --primary: oklch(0.68 0.2 35);
+  --primary: oklch(0.68 0.2 343);
   --primary-foreground: oklch(0.98 0 0);
   --secondary: oklch(0.22 0.01 25);
   --secondary-foreground: oklch(0.85 0.02 80);
   --muted: oklch(0.22 0.01 25);
   --muted-foreground: oklch(0.74 0.025 60);
-  --accent: oklch(0.85 0.15 85);
+  --accent: oklch(0.85 0.15 33);
   --accent-foreground: oklch(0.15 0.01 25);
   --destructive: oklch(0.55 0.22 25);
   --destructive-foreground: oklch(0.98 0 0);
   --border: oklch(0.3 0.012 30);
   --input: oklch(0.1 0.005 25);
-  --ring: oklch(0.68 0.2 35);
-  --chart-1: oklch(0.68 0.2 35);
-  --chart-2: oklch(0.85 0.15 85);
+  --ring: oklch(0.68 0.2 343);
+  --chart-1: oklch(0.68 0.2 343);
+  --chart-2: oklch(0.85 0.15 33);
   --chart-3: oklch(0.5 0.08 55);
   --chart-4: oklch(0.55 0.05 60);
   --chart-5: oklch(0.45 0.03 50);
   --sidebar: oklch(0.14 0.01 25);
   --sidebar-foreground: oklch(0.95 0.01 80);
-  --sidebar-primary: oklch(0.68 0.2 35);
+  --sidebar-primary: oklch(0.68 0.2 343);
   --sidebar-primary-foreground: oklch(0.98 0 0);
   --sidebar-accent: oklch(0.22 0.01 25);
   --sidebar-accent-foreground: oklch(0.95 0.01 80);
   --sidebar-border: oklch(0.25 0.01 30);
-  --sidebar-ring: oklch(0.68 0.2 35);
+  --sidebar-ring: oklch(0.68 0.2 343);
 }
 
 @theme inline {

diff --git a/lib/auto-clicker.ts b/lib/auto-clicker.ts
@@ -192,22 +192,24 @@ export function healingTemplate(name: string, label: string): ClickConfig {
  * then wait 2 minutes on the last step. Positions were recorded on a
  * 1080 × 2340 screen; on another screen, move the markers once.
  */
-const TERROR_STEPS: Array<[x: number, y: number, label: string, tapMs: number, delayAfterMs: number]> = [
-  [66, 1736, "Loupe", 20, 900],
-  [394, 1788, "", 20, 900],
-  [576, 2247, "", 20, 900],
-  [550, 1228, "", 20, 900],
-  [551, 960, "", 20, 900],
-  [567, 1513, "", 20, 900],
-  [780, 271, "", 20, 900],
-  [861, 2245, "", 500, 120_000],
+const TERROR_STEPS: Array<[x: number, y: number, tapMs: number, delayAfterMs: number]> = [
+  [71, 1741, 20, 900],
+  [399, 1793, 20, 900],
+  [581, 2252, 20, 900],
+  [555, 1233, 20, 900],
+  [556, 965, 20, 900],
+  [572, 1518, 20, 900],
+  [785, 276, 20, 900],
+  [866, 2250, 500, 120_000],
 ]
 
-export function terrorTemplate(name: string): ClickConfig {
+/** `labels`: the name of each step, in the app's language. */
+export function terrorTemplate(name: string, labels: readonly string[] = []): ClickConfig {
   const c = newConfig(name, "multi")
   c.intervalMs = 1000
-  c.targets = TERROR_STEPS.map(([x, y, label, tapMs, delayAfterMs]) => ({
-    ...newTarget(label),
+  c.startDelaySec = 1
+  c.targets = TERROR_STEPS.map(([x, y, tapMs, delayAfterMs], i) => ({
+    ...newTarget(labels[i] ?? ""),
     x,
     y,
     tapMs,
@@ -260,7 +262,7 @@ export interface Appearance {
   hideWhileRunning: boolean
 }
 
-export const DEFAULT_APPEARANCE: Appearance = { markerSize: 46, panelOpacity: 94, hideWhileRunning: false }
+export const DEFAULT_APPEARANCE: Appearance = { markerSize: 24, panelOpacity: 70, hideWhileRunning: true }
 
 // Older versions stored the marker size as "s", "m" or "l".
 const LEGACY_MARKER: Record<string, number> = { s: 34, m: 46, l: 60 }
@@ -273,7 +275,7 @@ export function sanitizeAppearance(raw: unknown): Appearance {
         ? LEGACY_MARKER[o.markerSize]
         : clamp(o.markerSize, MARKER_RANGE, DEFAULT_APPEARANCE.markerSize),
     panelOpacity: clamp(o.panelOpacity, [30, 100], DEFAULT_APPEARANCE.panelOpacity),
-    hideWhileRunning: o.hideWhileRunning === true,
+    hideWhileRunning: typeof o.hideWhileRunning === "boolean" ? o.hideWhileRunning : DEFAULT_APPEARANCE.hideWhileRunning,
   }
 }
 

diff --git a/tests/app.test.ts b/tests/app.test.ts
@@ -132,11 +132,13 @@ describe("auto clicker: simultaneous mode, sharing, appearance", () => {
 
   it("clamps the appearance settings", () => {
     assert.deepEqual(sanitizeAppearance({ markerSize: "xxl", panelOpacity: 5, hideWhileRunning: "yes" }), {
-      markerSize: 46,
+      markerSize: 24,
       panelOpacity: 30,
-      hideWhileRunning: false,
+      hideWhileRunning: true, // not a boolean: the default applies
     })
-    assert.equal(sanitizeAppearance(null).panelOpacity, 94)
+    assert.equal(sanitizeAppearance({ hideWhileRunning: false }).hideWhileRunning, false)
+    // What a new install gets: small markers, a see-through panel, markers hidden while running.
+    assert.deepEqual(sanitizeAppearance(null), { markerSize: 24, panelOpacity: 70, hideWhileRunning: true })
     assert.equal(sanitizeAppearance({ markerSize: 4 }).markerSize, 16)
     assert.equal(sanitizeAppearance({ markerSize: 22 }).markerSize, 22)
     assert.equal(sanitizeAppearance({ markerSize: "s" }).markerSize, 34)
@@ -158,9 +160,11 @@ describe("ready-made macros", () => {
     assert.equal(c.mode, "multi")
     assert.equal(c.targets.length, 8)
     assert.deepEqual(c.targets.map((t) => [t.x, t.y]), [
-      [66, 1736], [394, 1788], [576, 2247], [550, 1228], [551, 960], [567, 1513], [780, 271], [861, 2245],
+      [71, 1741], [399, 1793], [581, 2252], [555, 1233], [556, 965], [572, 1518], [785, 276], [866, 2250],
     ])
-    assert.equal(c.targets[0].label, "Loupe")
+    assert.equal(c.startDelaySec, 1)
+    assert.equal(c.targets[0].label, "")
+    assert.equal(terrorTemplate("Terror", ["Search", "Select Terror"]).targets[1].label, "Select Terror")
     assert.equal(c.targets[7].tapMs, 500)
     assert.equal(c.targets[7].delayAfterMs, 120_000)
     assert.ok(c.targets.slice(0, 7).every((t) => t.delayAfterMs === 900 && t.tapMs === 20))

diff --git a/tests/text-art.test.ts b/tests/text-art.test.ts
@@ -1,5 +1,6 @@
 import assert from "node:assert/strict"
 import { describe, it } from "node:test"
+import { EXAMPLE_ID, defaultLibrary } from "../lib/default-art"
 import {
   EXAMPLE_ART,
   graphemes,
@@ -148,5 +149,38 @@ describe("library storage", () => {
     assert.equal(lib.items[0].name.length, 60)
     assert.equal(lib.items[1].folderId, null)
     assert.equal(lib.items[1].text, "")
+  })
+})
+
+describe("default templates", () => {
+  const lib = defaultLibrary("Example: pixel hero")
+
+  it("is valid as it is: nothing is changed or dropped by the checks", () => {
+    assert.deepEqual(sanitizeLibrary(JSON.parse(JSON.stringify(lib))), lib)
+  })
+
+  it("has two folders and every template in one of them or none", () => {
+    assert.deepEqual(lib.folders.map((f) => f.name), ["Pixel Art", "ASCII"])
+    assert.ok(lib.items.length >= 30)
+    const folderIds = new Set(lib.folders.map((f) => f.id))
+    assert.ok(lib.items.every((i) => i.folderId === null || folderIds.has(i.folderId)))
+  })
+
+  it("has unique ids and no template left empty", () => {
+    assert.equal(new Set(lib.items.map((i) => i.id)).size, lib.items.length)
+    assert.ok(lib.items.every((i) => i.text.trim().length > 0))
+  })
+
+  it("keeps the pixel hero byte for byte and names it in the app's language", () => {
+    const hero = lib.items.find((i) => i.id === EXAMPLE_ID)
+    assert.equal(hero?.text, EXAMPLE_ART)
+    assert.equal(hero?.name, "Example: pixel hero")
+    assert.equal(defaultLibrary("Exemple").items.find((i) => i.id === EXAMPLE_ID)?.name, "Exemple")
+  })
+
+  it("gives a fresh copy each time", () => {
+    const a = defaultLibrary("x")
+    a.items[0].name = "changed"
+    assert.notEqual(defaultLibrary("x").items[0].name, "changed")
   })
 })

diff --git a/components/text-art.tsx b/components/text-art.tsx
@@ -35,7 +35,6 @@ import { longPress } from "@/lib/long-press"
 import {
   ART_LIMITS,
   DEFAULT_LINE_CELLS,
-  EXAMPLE_ART,
   layoutChat,
   loadLibrary,
   newArt,
@@ -46,6 +45,7 @@ import {
   type TextArt,
 } from "@/lib/text-art"
 import { KEYS } from "@/lib/storage-keys"
+import { defaultLibrary } from "@/lib/default-art"
 
 const cardCls = "border-border/50 bg-card"
 const titleCls = "flex items-center gap-2 text-xs font-semibold uppercase tracking-wider text-primary"
@@ -77,8 +77,7 @@ export function TextArtModule() {
   useEffect(() => {
     let stored = loadLibrary()
     if (stored === null) {
-      const folder = newFolder(a.exampleFolder)
-      stored = { folders: [folder], items: [newArt(a.exampleName, EXAMPLE_ART, folder.id)] }
+      stored = defaultLibrary(a.exampleName)
       saveLibrary(stored)
     }
     setLib(stored)

diff --git a/components/auto-clicker.tsx b/components/auto-clicker.tsx
@@ -272,7 +272,7 @@ export function AutoClicker() {
       }
       if (!seeded) {
         if (list.length === 0) {
-          list = [healingTemplate(a.healName, a.healStep1), terrorTemplate(a.terrorName)]
+          list = [healingTemplate(a.healName, a.healStep1), terrorTemplate(a.terrorName, a.terrorSteps)]
           await saveConfigs(list)
         }
         try {
@@ -706,7 +706,7 @@ export function AutoClicker() {
                 icon={<Skull className="h-4 w-4" />}
                 label={a.terrorTemplate}
                 help={a.terrorHelp}
-                onClick={() => add(terrorTemplate(a.terrorName))}
+                onClick={() => add(terrorTemplate(a.terrorName, a.terrorSteps))}
               />
             </CardContent>
           </Card>

diff --git a/tests/module-order.test.ts b/tests/module-order.test.ts
@@ -5,6 +5,10 @@ import { MODULE_IDS, isDefaultOrder, moveModule, sanitizeOrder } from "../lib/mo
 const DEFAULT = [...MODULE_IDS]
 
 describe("module order", () => {
+  it("starts with the order chosen for everyone", () => {
+    assert.deepEqual(DEFAULT, ["clicker", "textart", "rally", "ratio", "fraki", "gather", "buff", "rss"])
+  })
+
   it("falls back to the default order", () => {
     assert.deepEqual(sanitizeOrder(null), DEFAULT)
     assert.deepEqual(sanitizeOrder("rss"), DEFAULT)
@@ -46,6 +50,6 @@ describe("module order", () => {
 
   it("recognises the default order", () => {
     assert.ok(isDefaultOrder(DEFAULT))
-    assert.ok(!isDefaultOrder(moveModule(DEFAULT, "rss", 1)))
+    assert.ok(!isDefaultOrder(moveModule(DEFAULT, "clicker", 1)))
   })
 })

diff --git a/lib/locales/fr.ts b/lib/locales/fr.ts
@@ -278,6 +278,7 @@ export const fr: AppText = {
     templates: "Macros prêtes à l'emploi",
     healHelp: "Une cible pressée toutes les 20 ms : placez le repère sur le bouton de soin.",
     terrorTemplate: "Modèle : Terror",
+    terrorSteps: ["Recherche", "Choisir Terreur", "Rechercher la terreur", "Sélectionner la terreur trouvée", "Ralliement", "Lancer un ralliement", "Choisir la formation", "Déployer et attendre"],
     terrorName: "Terror",
     terrorHelp: "Lance un ralliement de Terror toutes les 2 minutes. Positions enregistrées sur un écran 1080 × 2340 : sur un autre écran, replacez les repères une fois.",
     about: "À propos de l'auto clicker",

diff --git a/components/app-settings.tsx b/components/app-settings.tsx
@@ -8,8 +8,8 @@ import { KEYS } from "@/lib/storage-keys"
 
 const STORAGE_KEY = KEYS.settings
 
-/** Default accent: the app's original orange. */
-export const DEFAULT_HUE = 35
+/** Default accent: pink. */
+export const DEFAULT_HUE = 343
 
 export const ACCENT_PRESETS = [
   { id: "orange", hue: 35 },
@@ -19,7 +19,7 @@ export const ACCENT_PRESETS = [
   { id: "teal", hue: 190 },
   { id: "blue", hue: 250 },
   { id: "violet", hue: 295 },
-  { id: "pink", hue: 345 },
+  { id: "pink", hue: 343 },
 ] as const
 
 /** CSS colour of the accent for a given hue (same lightness and chroma as the theme). */

diff --git a/lib/locales/en.ts b/lib/locales/en.ts
@@ -278,6 +278,7 @@ export const en: AppText = {
     templates: "Ready-made macros",
     healHelp: "One target tapped every 20 ms: put the marker on the heal button.",
     terrorTemplate: "Template: Terror",
+    terrorSteps: ["Search", "Select Terror", "Search terror", "Select terror found", "Rally", "Hold a rally", "Select formation", "Deploy and wait"],
     terrorName: "Terror",
     terrorHelp: "Launches a Terror rally every 2 minutes. Positions were recorded on a 1080 × 2340 screen: on another screen, move the markers once.",
     about: "About the auto clicker",

diff --git a/lib/module-order.ts b/lib/module-order.ts
@@ -2,7 +2,8 @@
 
 import { KEYS } from "./storage-keys"
 
-export const MODULE_IDS = ["rss", "fraki", "ratio", "buff", "gather", "rally", "clicker", "textart"] as const
+/** Default order of the tiles on the home screen (the order is also the list of known modules). */
+export const MODULE_IDS = ["clicker", "textart", "rally", "ratio", "fraki", "gather", "buff", "rss"] as const
 export type ModuleId = (typeof MODULE_IDS)[number]
 
 export const ORDER_KEY = KEYS.order
